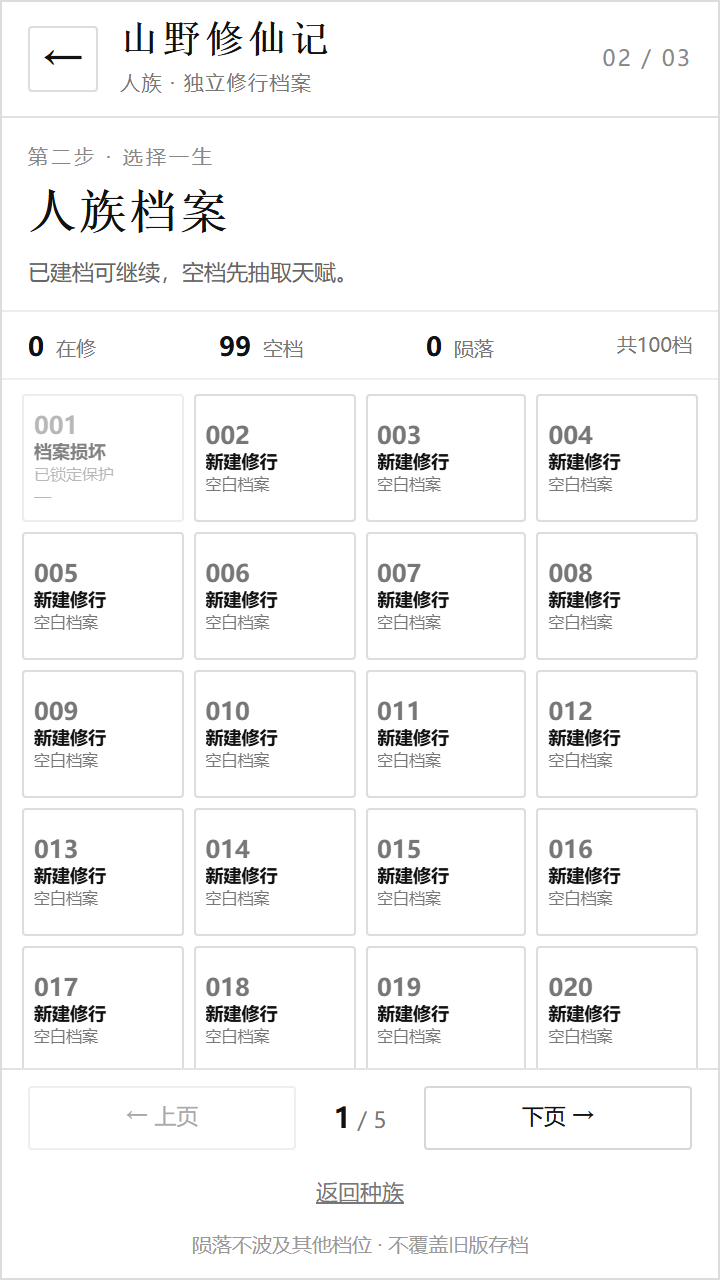
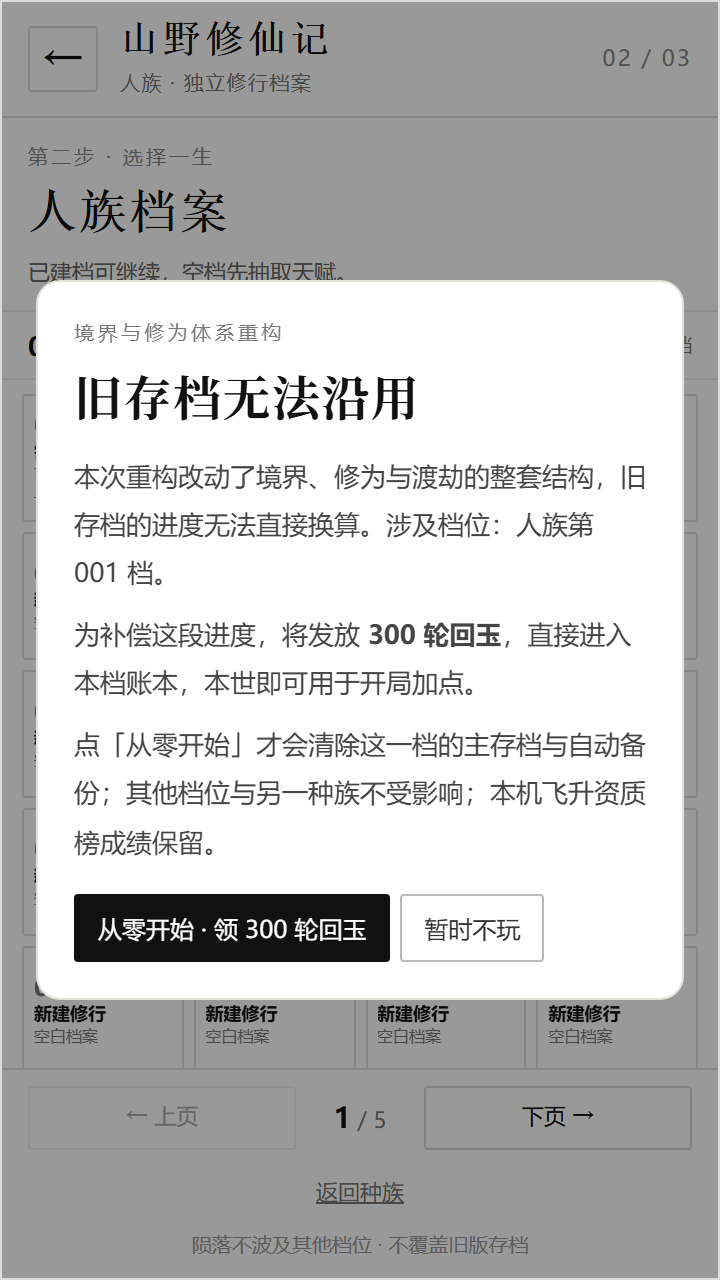
V90.43a 进展：status()/档案页/slot-open 识别 reset（不再显示档案损坏），验收 13/14 通过；遗留：补偿未写入轮回账本(-slot-XXX-legacy-v1)

diff --git a/index.html b/index.html
@@ -5236,7 +5236,7 @@ class RaceSlots{
   }
   if(present)throw Error('此档数据损坏，已锁定防止覆盖');return null;
  }
- status(id,n=1){try{this.check(id);this.slot(n);if(this.dead(id,n))return {status:this.retired(id,n)?'retired':'dead',role:id,slot:n};const found=this.read(id,n);if(!found)return {status:'empty',role:id,slot:n};const g=found.game,s=g.s;
+ status(id,n=1){try{this.check(id);this.slot(n);if(this.dead(id,n))return {status:this.retired(id,n)?'retired':'dead',role:id,slot:n};const found=this.read(id,n);if(!found)return {status:'empty',role:id,slot:n};if(found.reset)return {status:'reset',role:id,slot:n,tier:found.reset.tier};const g=found.game,s=g.s;
   return {status:'ready',role:id,slot:n,name:s.birth.name,grade:B.gradeName(s.birth),realm:g.realm,day:g.day,years:g.lifeYears.toFixed(1),ascended:s.ascended,source:found.source};
  }catch(e){return {status:'invalid',role:id,slot:n,error:e.message};}}
  list(){return Object.keys(D.RACES).map(id=>this.status(id));}
@@ -5298,7 +5298,7 @@ function stats(c){return `<div class="entry-stat-grid">${[['气血',c.hp],[c.ene
 function races(selected,active){const c=B.RACES[selected];return header('01')+heading('择一族，入凡界','选择种族','同一片山河，两条修行之路。')+
  `<section class="entry-content entry-character-content"><div class="entry-character-grid"><nav class="entry-role-menu" aria-label="种族列表">${Object.values(B.RACES).map((r,i)=>`<button class="entry-role-option ${r.id===selected?'selected':''}" data-a="choose-role" data-role="${r.id}" aria-pressed="${r.id===selected}"><small>0${i+1} / ${r.id==='human'?'问道':'化形'}</small><strong>${r.name}</strong><span>${r.id==='human'?'灵根 · 悟性':'血脉 · 本相'}</span></button>`).join('')}</nav><article class="entry-role-detail"><div class="entry-classification">${selected==='human'?'引气入体 · 悟道长生':'山野启灵 · 血脉蜕变'}</div><h2>${c.name}</h2><p class="entry-description">${c.intro}</p>${stats(c)}<small class="race-base-note">基础值 · 开局叠加抽取天赋</small><h3>天赋与修行</h3><p class="entry-detail-text">${c.detail}</p><div class="realm-track" aria-label="修行路线">${c.realms.map((r,i)=>`<span>${r}</span>${i<9?'<i>›</i>':''}`).join('')}</div><p class="entry-detail-note">${c.lore}</p></article></div></section><footer class="entry-footer"><button class="entry-main-action" data-a="view-slots" data-role="${selected}">选择${c.name} · 查看档案<span>→</span></button><button class="entry-secondary-action" data-a="ranking-open">本机飞升资质榜 · 最快通关记录 →</button>${active?'<button class="entry-secondary-action" data-a="slot-back">返回当前修行</button>':'<p>两族各100档 · 各档天赋、寿元与世界独立</p>'}</footer>`;}
 function archives(id,all,page,active){const c=B.RACES[id],used=all.filter(x=>x.status==='ready').length,empty=all.filter(x=>x.status==='empty').length,dead=all.filter(x=>x.status==='dead').length;
- const cells=all.slice(page*20,page*20+20).map(v=>{let title='新建修行',detail='空白档案';if(v.status==='ready'){title=v.name;detail=v.realm;}if(v.status==='dead'){title='已陨落';detail='可重新轮回';}if(v.status==='retired'){title='飞升圆满';detail='已结算 · 可重新轮回';}if(v.status==='invalid'){title='档案损坏';detail='已锁定保护';}
+ const cells=all.slice(page*20,page*20+20).map(v=>{let title='新建修行',detail='空白档案';if(v.status==='ready'){title=v.name;detail=v.realm;}if(v.status==='dead'){title='已陨落';detail='可重新轮回';}if(v.status==='reset'){title='需要重构';detail='可领 '+(v.tier||300)+' 轮回玉重开';}if(v.status==='retired'){title='飞升圆满';detail='已结算 · 可重新轮回';}if(v.status==='invalid'){title='档案损坏';detail='已锁定保护';}
  return `<button class="entry-save-cell ${v.status}" data-a="slot-open" data-role="${id}" data-slot="${v.slot}" ${v.status==='invalid'?'disabled':''} aria-label="第${num(v.slot)}档，${esc(title)}，${esc(detail)}"><span class="entry-save-id">${num(v.slot)}</span><span class="entry-save-info"><b>${esc(title)}</b><small>${esc(detail)}</small></span>${v.status==='ready'?`<small class="save-life">寿 ${v.years}年</small>`:`<small class="save-life">${v.status==='empty'?'+':['dead','retired'].includes(v.status)?'↻':'—'}</small>`}</button>`;}).join('');
  return header('02','characters',c.name+' · 独立修行档案')+heading('第二步 · 选择一生',c.name+'档案','已建档可继续，空档先抽取天赋。')+`<div class="archive-count"><span><b>${used}</b> 在修</span><span><b>${empty}</b> 空档</span><span><b>${dead}</b> 陨落</span><span>共100档</span></div><section class="entry-content entry-save-content" aria-label="第${page+1}页档位"><div class="entry-save-grid">${cells}</div></section><footer class="entry-footer entry-save-footer"><nav class="entry-pagination" aria-label="存档分页"><button data-a="slot-page" data-d="-1" ${page===0?'disabled':''}>← 上页</button><strong>${page+1}<small> / 5</small></strong><button data-a="slot-page" data-d="1" ${page===4?'disabled':''}>下页 →</button></nav><div class="entry-footer-tools"><button data-a="characters">返回种族</button>${active?'<button data-a="slot-back">返回游戏</button>':''}</div><p>陨落不波及其他档位 · 不覆盖旧版存档</p></footer>`;
 }
@@ -7060,6 +7060,7 @@ function handle(a,b){
  if(a==='slot-open'&&frontPage?.kind==='slots'&&!modal){
   const id=b.dataset.role,n=Number(b.dataset.slot),state=slots.status(id,n);
   if(state.status==='ready')selectCharacter(id,'open',n);
+  else if(state.status==='reset'){showModal({kind:'rebuild-reset',race:id,slot:n,tier:state.tier||300});render();return;}
   else if(['empty','dead','retired'].includes(state.status))beginBirth(id,n);
   else notify('存档损坏，已锁定防止覆盖','warn');return;
  }

diff --git a/play/jindan-v943a/index.html b/play/jindan-v943a/index.html
@@ -5631,7 +5631,7 @@ class RaceSlots{
   }
   if(present)throw Error('此档数据损坏，已锁定防止覆盖');return null;
  }
- status(id,n=1){try{this.check(id);this.slot(n);if(this.dead(id,n))return {status:this.retired(id,n)?'retired':'dead',role:id,slot:n};const found=this.read(id,n);if(!found)return {status:'empty',role:id,slot:n};const g=found.game,s=g.s;
+ status(id,n=1){try{this.check(id);this.slot(n);if(this.dead(id,n))return {status:this.retired(id,n)?'retired':'dead',role:id,slot:n};const found=this.read(id,n);if(!found)return {status:'empty',role:id,slot:n};if(found.reset)return {status:'reset',role:id,slot:n,tier:found.reset.tier};const g=found.game,s=g.s;
   return {status:'ready',role:id,slot:n,name:s.birth.name,grade:B.gradeName(s.birth),realm:g.realm,day:g.day,years:g.lifeYears.toFixed(1),ascended:s.ascended,source:found.source};
  }catch(e){return {status:'invalid',role:id,slot:n,error:e.message};}}
  list(){return Object.keys(D.RACES).map(id=>this.status(id));}
@@ -5693,7 +5693,7 @@ function stats(c){return `<div class="entry-stat-grid">${[['气血',c.hp],[c.ene
 function races(selected,active){const c=B.RACES[selected];return header('01')+heading('择一族，入凡界','选择种族','同一片山河，两条修行之路。')+
  `<section class="entry-content entry-character-content"><div class="entry-character-grid"><nav class="entry-role-menu" aria-label="种族列表">${Object.values(B.RACES).map((r,i)=>`<button class="entry-role-option ${r.id===selected?'selected':''}" data-a="choose-role" data-role="${r.id}" aria-pressed="${r.id===selected}"><small>0${i+1} / ${r.id==='human'?'问道':'化形'}</small><strong>${r.name}</strong><span>${r.id==='human'?'灵根 · 悟性':'血脉 · 本相'}</span></button>`).join('')}</nav><article class="entry-role-detail"><div class="entry-classification">${selected==='human'?'引气入体 · 悟道长生':'山野启灵 · 血脉蜕变'}</div><h2>${c.name}</h2><p class="entry-description">${c.intro}</p>${stats(c)}<small class="race-base-note">基础值 · 开局叠加抽取天赋</small><h3>天赋与修行</h3><p class="entry-detail-text">${c.detail}</p><div class="realm-track" aria-label="修行路线">${c.realms.map((r,i)=>`<span>${r}</span>${i<9?'<i>›</i>':''}`).join('')}</div><p class="entry-detail-note">${c.lore}</p></article></div></section><footer class="entry-footer"><button class="entry-main-action" data-a="view-slots" data-role="${selected}">选择${c.name} · 查看档案<span>→</span></button><button class="entry-secondary-action" data-a="ranking-open">本机飞升资质榜 · 最快通关记录 →</button>${active?'<button class="entry-secondary-action" data-a="slot-back">返回当前修行</button>':'<p>两族各100档 · 各档天赋、寿元与世界独立</p>'}</footer>`;}
 function archives(id,all,page,active){const c=B.RACES[id],used=all.filter(x=>x.status==='ready').length,empty=all.filter(x=>x.status==='empty').length,dead=all.filter(x=>x.status==='dead').length;
- const cells=all.slice(page*20,page*20+20).map(v=>{let title='新建修行',detail='空白档案';if(v.status==='ready'){title=v.name;detail=v.realm;}if(v.status==='dead'){title='已陨落';detail='可重新轮回';}if(v.status==='retired'){title='飞升圆满';detail='已结算 · 可重新轮回';}if(v.status==='invalid'){title='档案损坏';detail='已锁定保护';}
+ const cells=all.slice(page*20,page*20+20).map(v=>{let title='新建修行',detail='空白档案';if(v.status==='ready'){title=v.name;detail=v.realm;}if(v.status==='dead'){title='已陨落';detail='可重新轮回';}if(v.status==='reset'){title='需要重构';detail='可领 '+(v.tier||300)+' 轮回玉重开';}if(v.status==='retired'){title='飞升圆满';detail='已结算 · 可重新轮回';}if(v.status==='invalid'){title='档案损坏';detail='已锁定保护';}
  return `<button class="entry-save-cell ${v.status}" data-a="slot-open" data-role="${id}" data-slot="${v.slot}" ${v.status==='invalid'?'disabled':''} aria-label="第${num(v.slot)}档，${esc(title)}，${esc(detail)}"><span class="entry-save-id">${num(v.slot)}</span><span class="entry-save-info"><b>${esc(title)}</b><small>${esc(detail)}</small></span>${v.status==='ready'?`<small class="save-life">寿 ${v.years}年</small>`:`<small class="save-life">${v.status==='empty'?'+':['dead','retired'].includes(v.status)?'↻':'—'}</small>`}</button>`;}).join('');
  return header('02','characters',c.name+' · 独立修行档案')+heading('第二步 · 选择一生',c.name+'档案','已建档可继续，空档先抽取天赋。')+`<div class="archive-count"><span><b>${used}</b> 在修</span><span><b>${empty}</b> 空档</span><span><b>${dead}</b> 陨落</span><span>共100档</span></div><section class="entry-content entry-save-content" aria-label="第${page+1}页档位"><div class="entry-save-grid">${cells}</div></section><footer class="entry-footer entry-save-footer"><nav class="entry-pagination" aria-label="存档分页"><button data-a="slot-page" data-d="-1" ${page===0?'disabled':''}>← 上页</button><strong>${page+1}<small> / 5</small></strong><button data-a="slot-page" data-d="1" ${page===4?'disabled':''}>下页 →</button></nav><div class="entry-footer-tools"><button data-a="characters">返回种族</button>${active?'<button data-a="slot-back">返回游戏</button>':''}</div><p>陨落不波及其他档位 · 不覆盖旧版存档</p></footer>`;
 }
@@ -7455,6 +7455,7 @@ function handle(a,b){
  if(a==='slot-open'&&frontPage?.kind==='slots'&&!modal){
   const id=b.dataset.role,n=Number(b.dataset.slot),state=slots.status(id,n);
   if(state.status==='ready')selectCharacter(id,'open',n);
+  else if(state.status==='reset'){showModal({kind:'rebuild-reset',race:id,slot:n,tier:state.tier||300});render();return;}
   else if(['empty','dead','retired'].includes(state.status))beginBirth(id,n);
   else notify('存档损坏，已锁定防止覆盖','warn');return;
  }
